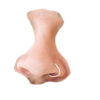
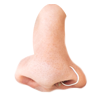
Start to set up silly flickiy

diff --git a/css/style.scss b/css/style.scss
@@ -25,21 +25,42 @@ input[type=reset],input[type=submit]{-webkit-appearance:button;cursor:pointer;}b
 .icon {
 	width: 100px;
 	height: 100px;
-	background:grey;
 	margin:5px 0;
+	background-size: contain;
+	background-repeat:no-repeat;
 }
 .ryan-icon {
-	background: url(../images/Headshots/ryan.jpg) no-repeat;
-	background-size: contain;
+	background-image: url(../images/Headshots/ryan.jpg);
 }
 .drew-icon {
-	background: url(../images/Headshots/drew.jpg) no-repeat;
-	background-size: contain;
+	background-image: url(../images/Headshots/drew.jpg);
 }
 .kristen-icon {
-	background: url(../images/Headshots/kristen.jpg) no-repeat;
-	background-size: contain;
+	background-image: url(../images/Headshots/kristen.jpg);
 }
+.hat-icon {
+	background-image: url(../images/silly/hats/hat.png);
+}
+.eye-icon {
+	background-image: url(../images/silly/eyes/eye1.png);
+}
+.nose-icon {
+	background-image: url(../images/silly/hats/hat.png);
+}
+.mouth-icon {
+	background-image: url(../images/silly/hats/hat.png);
+}
+.hair-icon {
+	background-image: url(../images/silly/hats/hat.png);
+}
+.hand-icon {
+	background-image: url(../images/silly/hats/hat.png);
+}
+.accessories-icon {
+	background-image: url(../images/silly/hats/hat.png);
+}
+
+
 .part-container {
 	height: 35vh;
 	width: 95%;

diff --git a/css/style.css b/css/style.css
@@ -176,23 +176,49 @@ legend, button::-moz-focus-inner, input::-moz-focus-inner {
 .icon {
   width: 100px;
   height: 100px;
-  background: grey;
   margin: 5px 0;
+  background-size: contain;
+  background-repeat: no-repeat;
 }
 
 .ryan-icon {
-  background: url(../images/Headshots/ryan.jpg) no-repeat;
-  background-size: contain;
+  background-image: url(../images/Headshots/ryan.jpg);
 }
 
 .drew-icon {
-  background: url(../images/Headshots/drew.jpg) no-repeat;
-  background-size: contain;
+  background-image: url(../images/Headshots/drew.jpg);
 }
 
 .kristen-icon {
-  background: url(../images/Headshots/kristen.jpg) no-repeat;
-  background-size: contain;
+  background-image: url(../images/Headshots/kristen.jpg);
+}
+
+.hat-icon {
+  background-image: url(../images/silly/hats/hat.png);
+}
+
+.eye-icon {
+  background-image: url(../images/silly/eyes/eye1.png);
+}
+
+.nose-icon {
+  background-image: url(../images/silly/hats/hat.png);
+}
+
+.mouth-icon {
+  background-image: url(../images/silly/hats/hat.png);
+}
+
+.hair-icon {
+  background-image: url(../images/silly/hats/hat.png);
+}
+
+.hand-icon {
+  background-image: url(../images/silly/hats/hat.png);
+}
+
+.accessories-icon {
+  background-image: url(../images/silly/hats/hat.png);
 }
 
 .part-container {

diff --git a/index.html b/index.html
@@ -35,9 +35,13 @@
 					</div>
 					<div class="row">
 						<div class="gallery2 js-flickity" data-flickity-options='{ "cellAlign": "center", "imagesLoaded": true, "wrapAround": true }' >
-						  <div class="gallery-cell tuber1"></div>
-						  <div class="gallery-cell tuber2"></div>
-						  <div class="gallery-cell tuber3"></div>
+							<div class="gallery-cell2 hat-icon icon"></div>
+							<div class="gallery-cell2 eye-icon icon"></div>
+							<div class="gallery-cell2 nose-icon icon"></div>
+							<div class="gallery-cell2 mouth-icon icon"></div>
+							<div class="gallery-cell2 hair-icon icon"></div>
+							<div class="gallery-cell2 hand-icon icon"></div>
+							<div class="gallery-cell2 accessories-icon icon"></div>
 						</div>
 	<!-- 					<div class="col-sm-4">
 							<div class="icon hats"></div>
